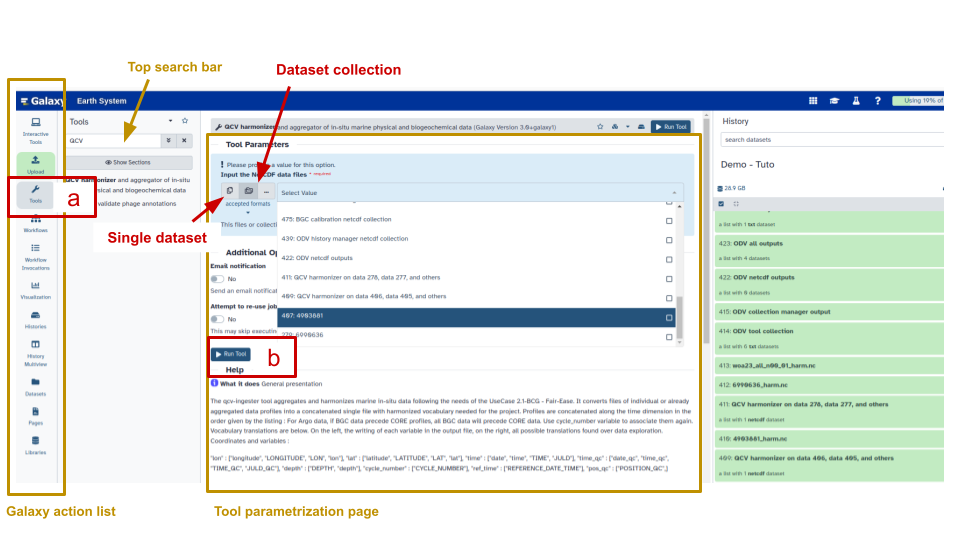
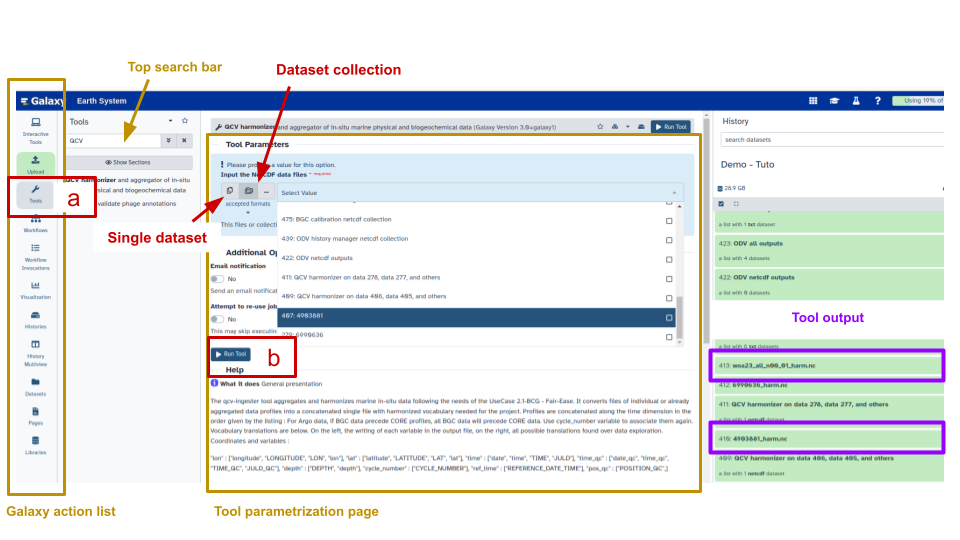
figure citation

Changed region(s): [[0.7188, 0.5333, 1.0, 0.7111], [0.7188, 0.7704, 1.0, 0.8593]]

diff --git a/book/04-User manual/142-ongalaxy.md b/book/04-User manual/142-ongalaxy.md
@@ -20,16 +20,16 @@ Create or Login to your [Galaxy europe account](https://earth-system.usegalaxy.e
 
 :::{admonition} Galaxy tips and tricks
 :class: dropdown
-Once you are login, Galaxy is divided into 4 vertical panels whose : 
+Once you are login, Galaxy is divided into 4 vertical panels whose (see @figure-1): 
 - the far left : **<span style="color:gold">Galaxy action list</span>** with “interactive Tools”, “Upload”, “Tools” …
 - the far right : **<span style="color:gold">History</span>** section.
 
-See figure below.
 
-```{image}  ../../embedded-ressources/figures/S141a_history.png
-:alt: figa
+```{figure}  ../../embedded-ressources/figures/S141a_history.png
+:label: figure-1
 :width: 500px
 :align: center
+Galaxy organisation
 ```
 
 All symbols have a name that appears when you point your mouse on the symbol. Their name will be indicated with *{}* in the following tutorial.
@@ -51,15 +51,16 @@ It is possible to organise your history with *sub-directory* :
     - Click on the symbole **⇄** on the top-right in the history section
     - Select the history in the pop-up
 - Copy/paste dataset from one history to another one
-    - Click on {**<span style="color:gold">Operations</span>**} - See figure below
+    - Click on {**<span style="color:gold">Operations</span>**} - See @figure-2
     - Select **Copier des jeux de données** in the pop-up
     - In the central panel left to history section, select the file(s) you want to copy from the **source** history (left) to the **destination** history (right)
 
 
-```{image}  ../../embedded-ressources/figures/S141a_operations.png
-:alt: figb
+```{figure}  ../../embedded-ressources/figures/S141a_operations.png
+:label: figure-2
 :width: 500px
 :align: center
+Galaxy operation symbol
 ```
 :::
 
@@ -74,44 +75,46 @@ Because oxygen concentration is implied in the estimation of the `nitrate adjust
 ::::{tab-set}
 :::{tab-item} from the S3 server
 For uploading the argo data files (meta, core and BGC) of the float 4903881 from the S3 service: 
-- Click on **Upload** (see `a` on the figure below) on the **<span style="color:gold">Galaxy action list</span>** vertical panel on the left. A pop-up window will open.
-- Click on **Choose from repository** (see `b` on the figure below) at the bottom of the pop-up. A new pop-up window will open.
+- Click on **Upload** (see `a` on @figure-3) on the **<span style="color:gold">Galaxy action list</span>** vertical panel on the left. A pop-up window will open.
+- Click on **Choose from repository** (see `b` on @figure-3) at the bottom of the pop-up. A new pop-up window will open.
 - Search *argo* in the top search bar. *<span style="color:LightSkyBlue">Argo marine floats data and metadata from Global Data Assembly Centre (Argo GDAC)</span>* appears in the label column just below
 - Select it, then *<span style="color:LightSkyBlue">pub/dac/coriolis/4903881</span>* and tick *4903881_meta.nc* & *profiles/* 
-- Click on **Select** on the bottom right of the pop-up. The list of the files to download is displayed (see `c` on the figure below)
+- Click on **Select** on the bottom right of the pop-up. The list of the files to download is displayed (see `c` on @figure-3)
 - Remove the Synthetic files *SR4903881_*.nc* (not useful for qualification & calibration actions) by clicking on the corresponding trash icon on the right
 - Click on **Start** on the bottom of the pop-up. Once the download is completed (green color), close the window;
 
 Wait until all files are stored in your history on the right (green color).
 
-```{image}  ../../embedded-ressources/figures/S142-S3.png
-:alt: figc
+```{figure}  ../../embedded-ressources/figures/S142-S3.png
+:label: figure-3
 :width: 500px
 :align: center
+Get your data from S3 server
 ```
 :::
 
 :::{tab-item} from your computer
 <!-- :class: dropdown -->
 for uploading the argo data files (meta, core and BGC) of the float 4903881 or Word Ocean Atlas climatology from your computer: 
-- Click on **Upload** (see `a` on the figure below) on the **<span style="color:gold">Galaxy action list</span>** vertical panel on the left. A pop-up window will open.
-- Click on **Choose local file** (see `b` on the figure below) at the bottom of the popup. Your directory window will open.
-- Select file(s) to be added and Click on **Open** at the bottom of the popup. The list of the files to download is displayed (see `c` on the figure below)
+- Click on **Upload** (see `a` on @figure-4) on the **<span style="color:gold">Galaxy action list</span>** vertical panel on the left. A pop-up window will open.
+- Click on **Choose local file** (see `b` on @figure-4) at the bottom of the popup. Your directory window will open.
+- Select file(s) to be added and Click on **Open** at the bottom of the popup. The list of the files to download is displayed (see `c` on @figure-4)
 - Click on **Start** on the bottom of the pop-up. Once the download is complete (green color), close the window.
 
 Wait until all files are stored in your history on the right (green color).
 
 
-```{image}  ../../embedded-ressources/figures/S142-fromComputer.png
-:alt: figd
+```{figure}  ../../embedded-ressources/figures/S142-fromComputer.png
+:label: figure-4
 :width: 500px
 :align: center
+Get your data from your computer
 ```
-
 :::
 ::::
 
 #### Step2 : Organize your data
+##### Creation of a dataset list/collection
 For creating a dataset list/collection, useful for platforms with many NetCDF original files as the Argo float 4903881.
 
 Not useful for WOA
@@ -119,85 +122,112 @@ Not useful for WOA
 Choose below the case corresponding to your **<span style="color:gold">history</span>** section before dowloading 4903881 files
 ::::{tab-set}
 :::{tab-item} From empty history
-- Click on {**Select item**}  (see `a` on the figure below)
-- Click on **Select all** that has just appeared on the right  (see `b` on the figure below)
+- Click on {**Select item**}  (see `a` on @figure-5)
+- Click on **Select all** that has just appeared on the right  (see `b` on @figure-5)
 - Click on  **All ## selected** that just replaced **Select all**. A window will pop up just below
 - Select **Auto build list**. A pop-up window will open in the central panel
-- Enter the name of the data collection : 4903881 (see `c` on the figure above)
-- Turn off **Remove the file extension** (see `d` on the figure above)
-- Click on **Build** on the bottom right of the pop-up (see `e` on the figure above)
+- Enter the name of the data collection : 4903881 (see `c` on @figure-6)
+- Turn off **Remove the file extension** (see `d` on @figure-6)
+- Click on **Build** on the bottom right of the pop-up (see `e` on @figure-6)
 
 Once the collection is ready, everything is green in the history panel. It is possible to limit the history to useful files or collections by clicking on the eyes above the files list in the history.
 
   ```{figure}  ../../embedded-ressources/figures/S142-historyempty.png
-  :label: fige
+  :label: figure-5
   :width: 900px
   :align: center
+  Select data from empty history
   ```
   ```{figure}  ../../embedded-ressources/figures/S142-collection.png
-  :label: figf
+  :label: figure-6
   :width: 900px
   :align: center
+  Dataset creation list
   ```
 :::
 
 :::{tab-item} From NOT empty history
-- Click on {**Select item**}  (see `a` on the figure below)
+- Click on {**Select item**}  (see `a` on @figure-7)
 - Tick all interesting files
-- Click on  **## of ## selected**  (see `b` on the figure below). A window will pop up just below
+- Click on  **## of ## selected**  (see `b` on @figure-7). A window will pop up just below
 - Select **Auto build list**. A pop-up window will open in the central panel
-- Enter the name of the data collection : 4903881 (see `c` on the figure above)
-- Turn off **Remove the file extension** (see `d` on the figure above)
-- Click on **Build** on the bottom right of the pop-up (see `e` on the figure above)
+- Enter the name of the data collection : 4903881 (see `c` on @figure-8)
+- Turn off **Remove the file extension** (see `d` on @figure-8)
+- Click on **Build** on the bottom right of the pop-up (see `e` on @figure-8)
 
 Once the collection is ready, everything is green in the history panel. It is possible to limit the history to useful files or collections by clicking on the eyes above the files list in the history.
 
   ```{figure}  ../../embedded-ressources/figures/S142-historyNotempty.png
-  :label: figg
+  :label: figure-7
   :width: 900px
   :align: center
+  Select data from not empty history
   ```
   ```{figure}  ../../embedded-ressources/figures/S142-collection.png
-  :label: figh
+  :label: figure-8
   :width: 900px
   :align: center
+  Dataset creation list
   ```
 :::
 ::::
 
+##### File change extension
+Because galaxy does not manage h5 extension very well, please change it for WOA(if needed). In the history section, 
+- Select *woa###_.nc* file
+- Click on the **pencil** on the right. A new window opens in the central panel (see `a` on @figure-9)
+- Select **Datatype** (see `b` on @figure-9)
+- Inform the *New Type* with *NetCDF* (see `c` on @figure-9)
+- Save (see `d` on @figure-9)
+
+  ```{figure}  ../../embedded-ressources/figures/S142-changeExtension.png
+  :label: figure-9
+  :width: 900px
+  :align: center
+  Change of file extension
+  ```
+
 ### Harmonize your data
 Run `QCV harmonizer` (see section [Before starting](#startingPoint) for more details) for creating the harmonized in format and vocabulary NetCDF file by following these instructions : 
-- Click on **Tools** just below **Upload** on the  **<span style="color:gold">Galaxy action list</span>** vertical panel on the left (see `a` on the figure below) . A new vertical panel called **Tools** appears next to the **<span style="color:gold">Galaxy action list</span>** vertical panel.
-- Search `QCV harmonizer` in the **<span style="color:gold">top search bar</span>**
-- Select the tool. Its **<span style="color:gold">parametrization page</span>** appears on the center
-- In the blue box and below *Input the Netcdf data files* (see on the figure)
-    - for a dataset collection such as 4903881, select {*Dataset collection*} then click on **Select Value**. A window with files listed in your history opens. Select *4903881*
-    - for WOA, select {*Single dataset*} then click on *Select Value*.  A window with files listed in your history opens. Select *woa###.nc* file
+- Click on **Tools** just below **Upload** on the  **<span style="color:gold">Galaxy action list</span>** vertical panel on the left (see `a` on @figure-10) . A new vertical panel called **Tools** appears next to the **<span style="color:gold">Galaxy action list</span>** vertical panel.
+- Search `QCV harmonizer` in the **<span style="color:gold">top search bar</span>** (see on @figure-10)
+- Select the tool. Its **<span style="color:gold">parametrization page</span>** appears on the center (see on @figure-10)
+- In the blue box and below *Input the Netcdf data files* (see on @figure-10)
+    - for a dataset collection such as 4903881,
+        - Select {*Dataset collection*} then click on *Select Value*. A window with files listed in your history opens.
+        - Select *4903881*
+    - for WOA,
+        - Select {*Single dataset*} 
+        - Then click on *Select Value*.  A window with files listed in your history opens. 
+        - Select *woa###.nc* file
 
 :::{note}
-If your file is not listed in the window, you can drag and drop  it from the history section to *Select value* box.
+If your file is not listed in the window, you can **drag and drop**  it from the history section to *Select value* box.
 :::
 
-- Run the tool by clicking on the corresponding button below (see `b` on the figure below).
+- Run the tool by clicking on the corresponding button below (see `b` on @figure-10).
 
-At the end of the process, the tool delivers an harmonized file, ***###_harm.nc*** (since version 3.0 of the tool), ready for analysis.
+Once the tool outputs are ready, the harmonized file is  available in the **<span style="color:gold">history</span>** section (green color) 
 
-```{image}  ../../embedded-ressources/figures/S142-harmonizer.png
-:alt: figharmo
-:width: 500px
+::: {admonition} tool output
+one file by platform name ***###_harm.nc*** (since version 3.0 of the tool)
+:::
+
+::: {note}
+Run the tool one by one for all platforms and/or reference data set (such as WOA) import in your **<span style="color:gold">history</span>** section and need to perform the full QCV workflow
+:::
+
+```{figure}  ../../embedded-ressources/figures/S142-harmonizer.png
+:label: figure-10
+:width: 900px
 :align: center
+Q.C.V harmonize tool on Galaxy
 ```
 
-<!-- ### Qualify your data
+
+### Qualify your data
 #### Step1 : Creation of the ODV collection
-:::{admonition} How to run ODV collection manager
-:class: dropdown
-```{image}  ../../embedded-ressources/figures/sign-2408065_1280.png
-:alt: travaux
-:width: 500px
-:align: center
-```
-::: -->
+
 
 ### Calibrate your data
 ### Validate your data
